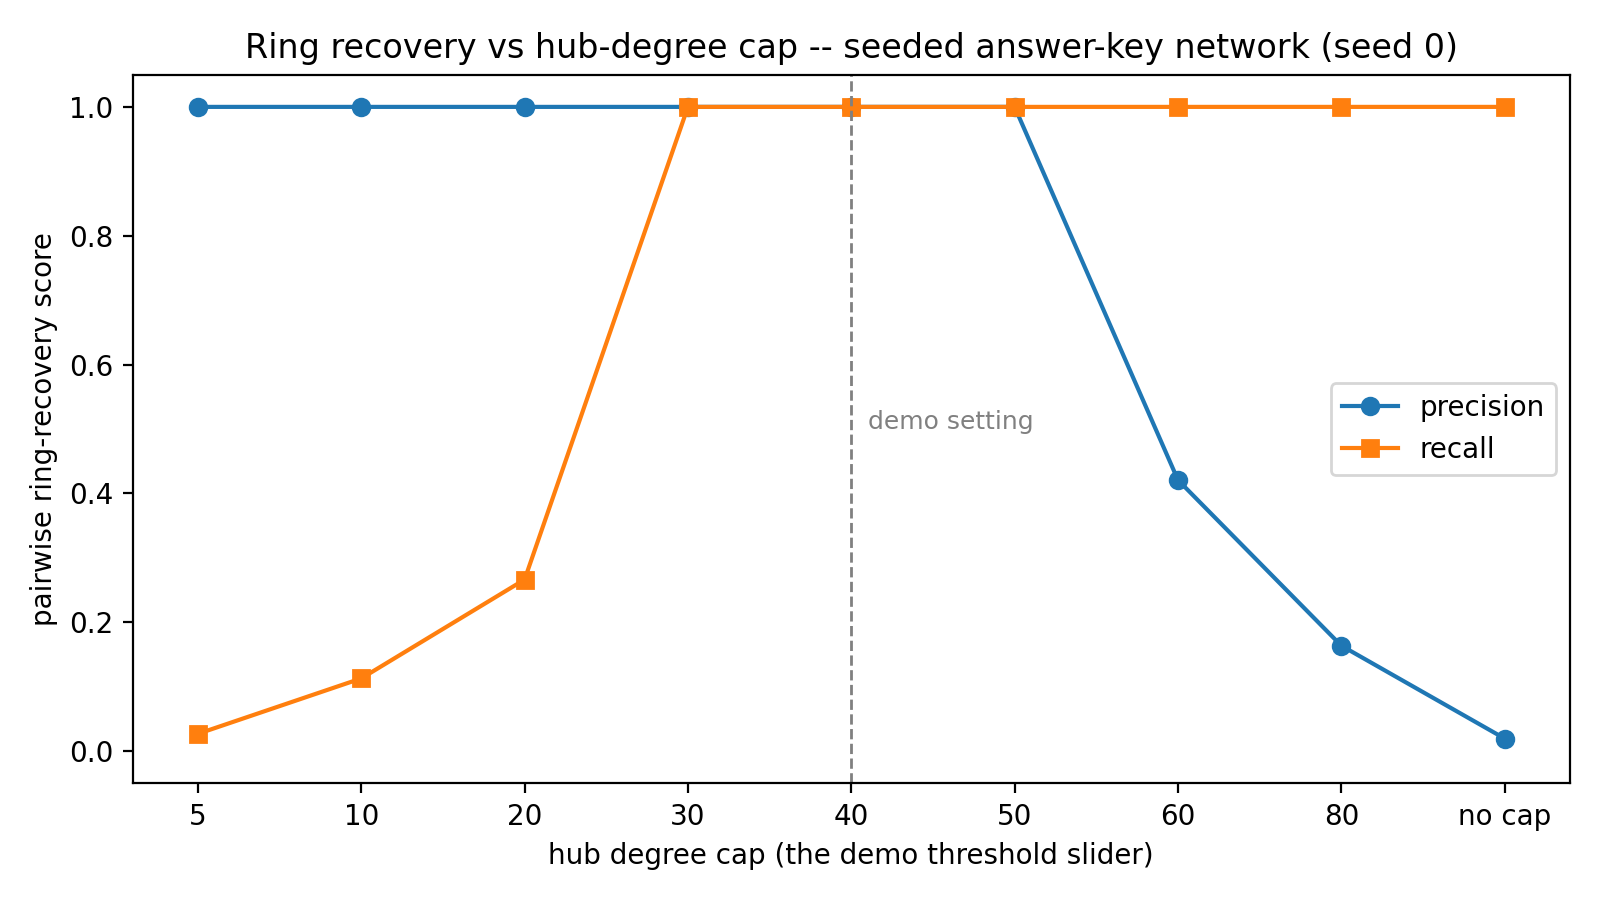
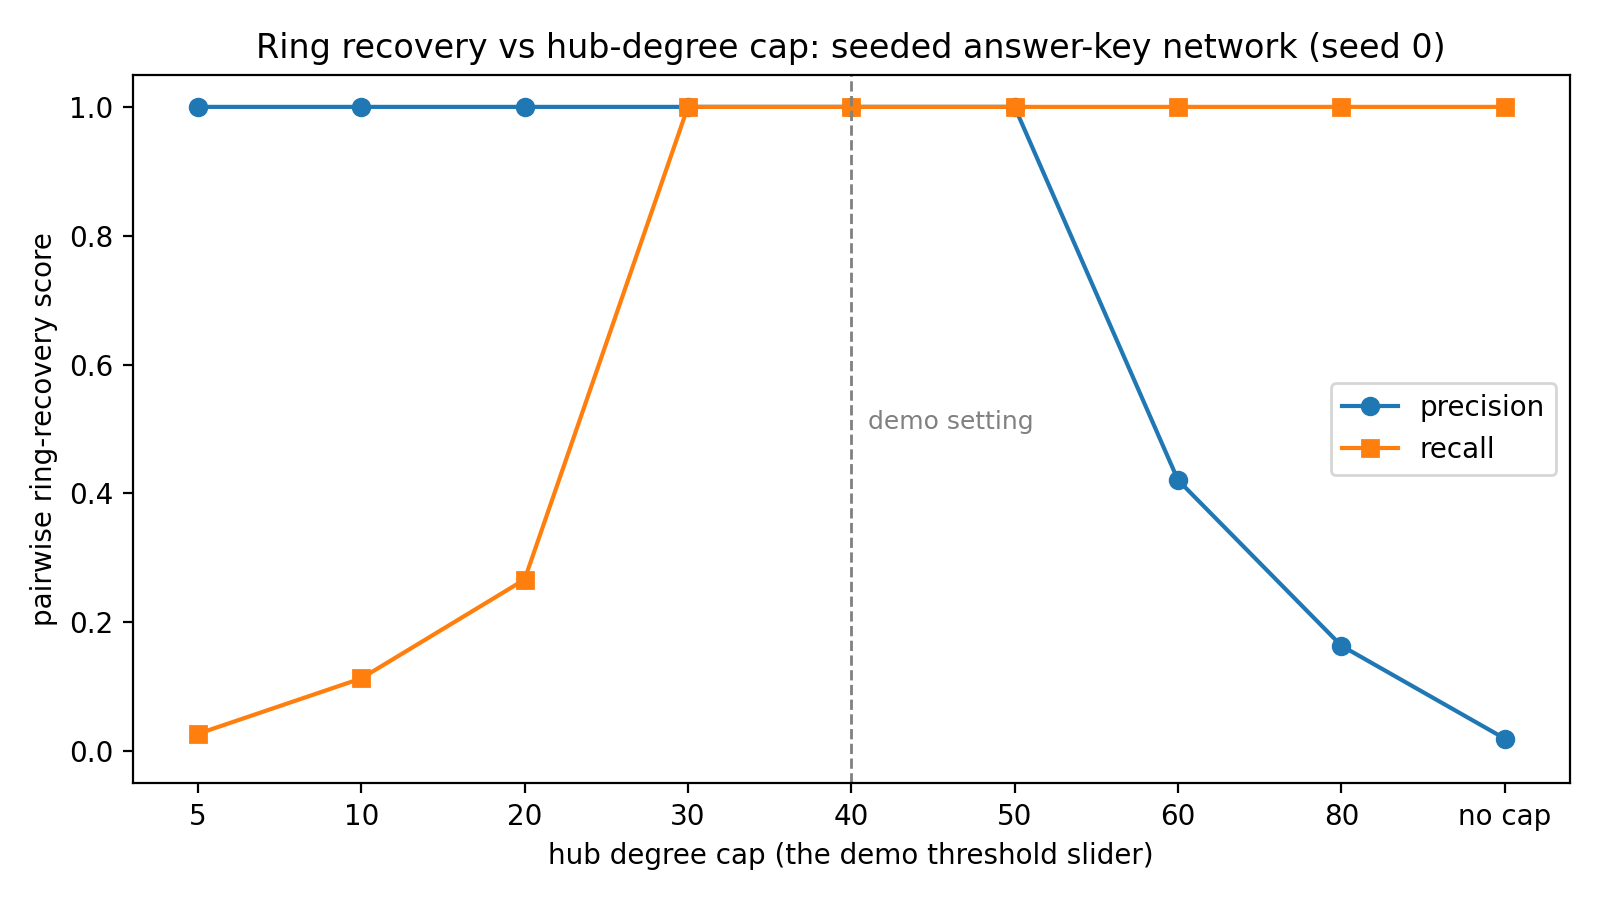
Updated the validation pipeline

Changed region(s): [[0.1562, 0.0311, 0.9062, 0.0933]]

diff --git a/src/evidence/guardrails.py b/src/evidence/guardrails.py
@@ -148,9 +148,9 @@ def describe_adversarial_case(reports: list[Report], hub_degree_cap: int = 8) ->
         f"(degree {degree} vs hub_degree_cap={hub_degree_cap}: "
         f"{'excluded as a hub' if degree > hub_degree_cap else 'NOT excluded'}). Layer 1 (hard "
         f"identifiers, guardrail applied): {'found' if layer1_caught else 'did NOT find'} a ring "
-        "linking them -- the device is excluded for the same reason a genuine popular hub is, "
+        "linking them: the device is excluded for the same reason a genuine popular hub is, "
         "which Layer 1 states as a limitation rather than silently missing. Layer 2: the shared "
         f"device {'was' if layer2_bridged else 'was NOT'} surfaced as the top cross-incident lead "
-        "bridging all victims -- reported as a lead, not asserted as proof."
+        "bridging all victims (reported as a lead, not asserted as proof)."
     )
     return GuardrailResult(name="adversarial_identifier_rotation", passed=passed, detail=detail)

diff --git a/src/evidence/pack.py b/src/evidence/pack.py
@@ -118,7 +118,7 @@ class EvidencePack:
             "statute": "Bharatiya Sakshya Adhiniyam 2023, Section 63 (electronic record)",
             "predecessor": "Indian Evidence Act 1872, Section 65B (superseded)",
             "content_sha256": self.content_sha256,
-            "status": "PLACEHOLDER -- requires a signed certificate from the person "
+            "status": "PLACEHOLDER: requires a signed certificate from the person "
                        "in charge of the device/system, per Section 63, before use "
                        "in proceedings; not executed in this demo build",
         }

diff --git a/src/evidence/validate.py b/src/evidence/validate.py
@@ -249,7 +249,7 @@ def _write_pr_curve_figure(curve: list[PairwiseScore], path: Path) -> None:
     ax.set_xlabel("hub degree cap (the demo threshold slider)")
     ax.set_ylabel("pairwise ring-recovery score")
     ax.set_ylim(-0.05, 1.05)
-    ax.set_title("Ring recovery vs hub-degree cap -- seeded answer-key network (seed 0)")
+    ax.set_title("Ring recovery vs hub-degree cap: seeded answer-key network (seed 0)")
     ax.legend()
     fig.tight_layout()
     path.parent.mkdir(parents=True, exist_ok=True)